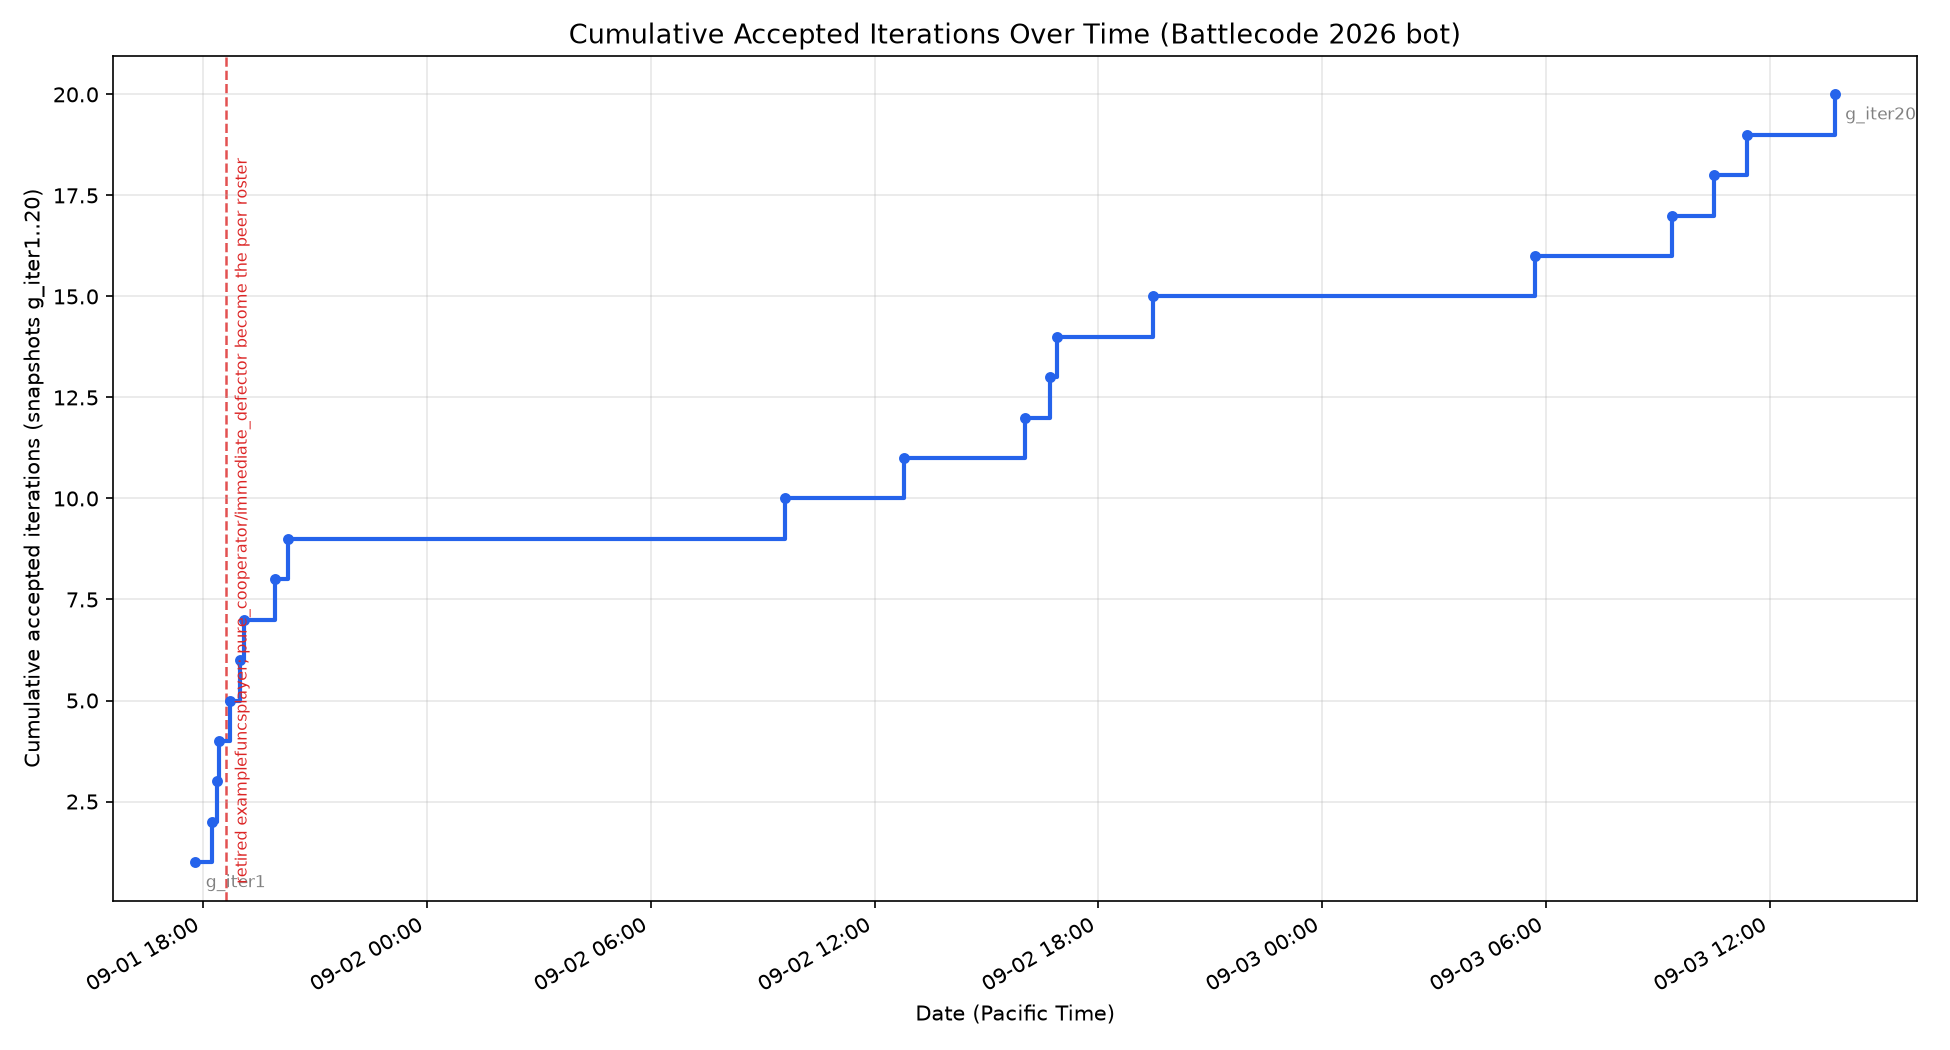
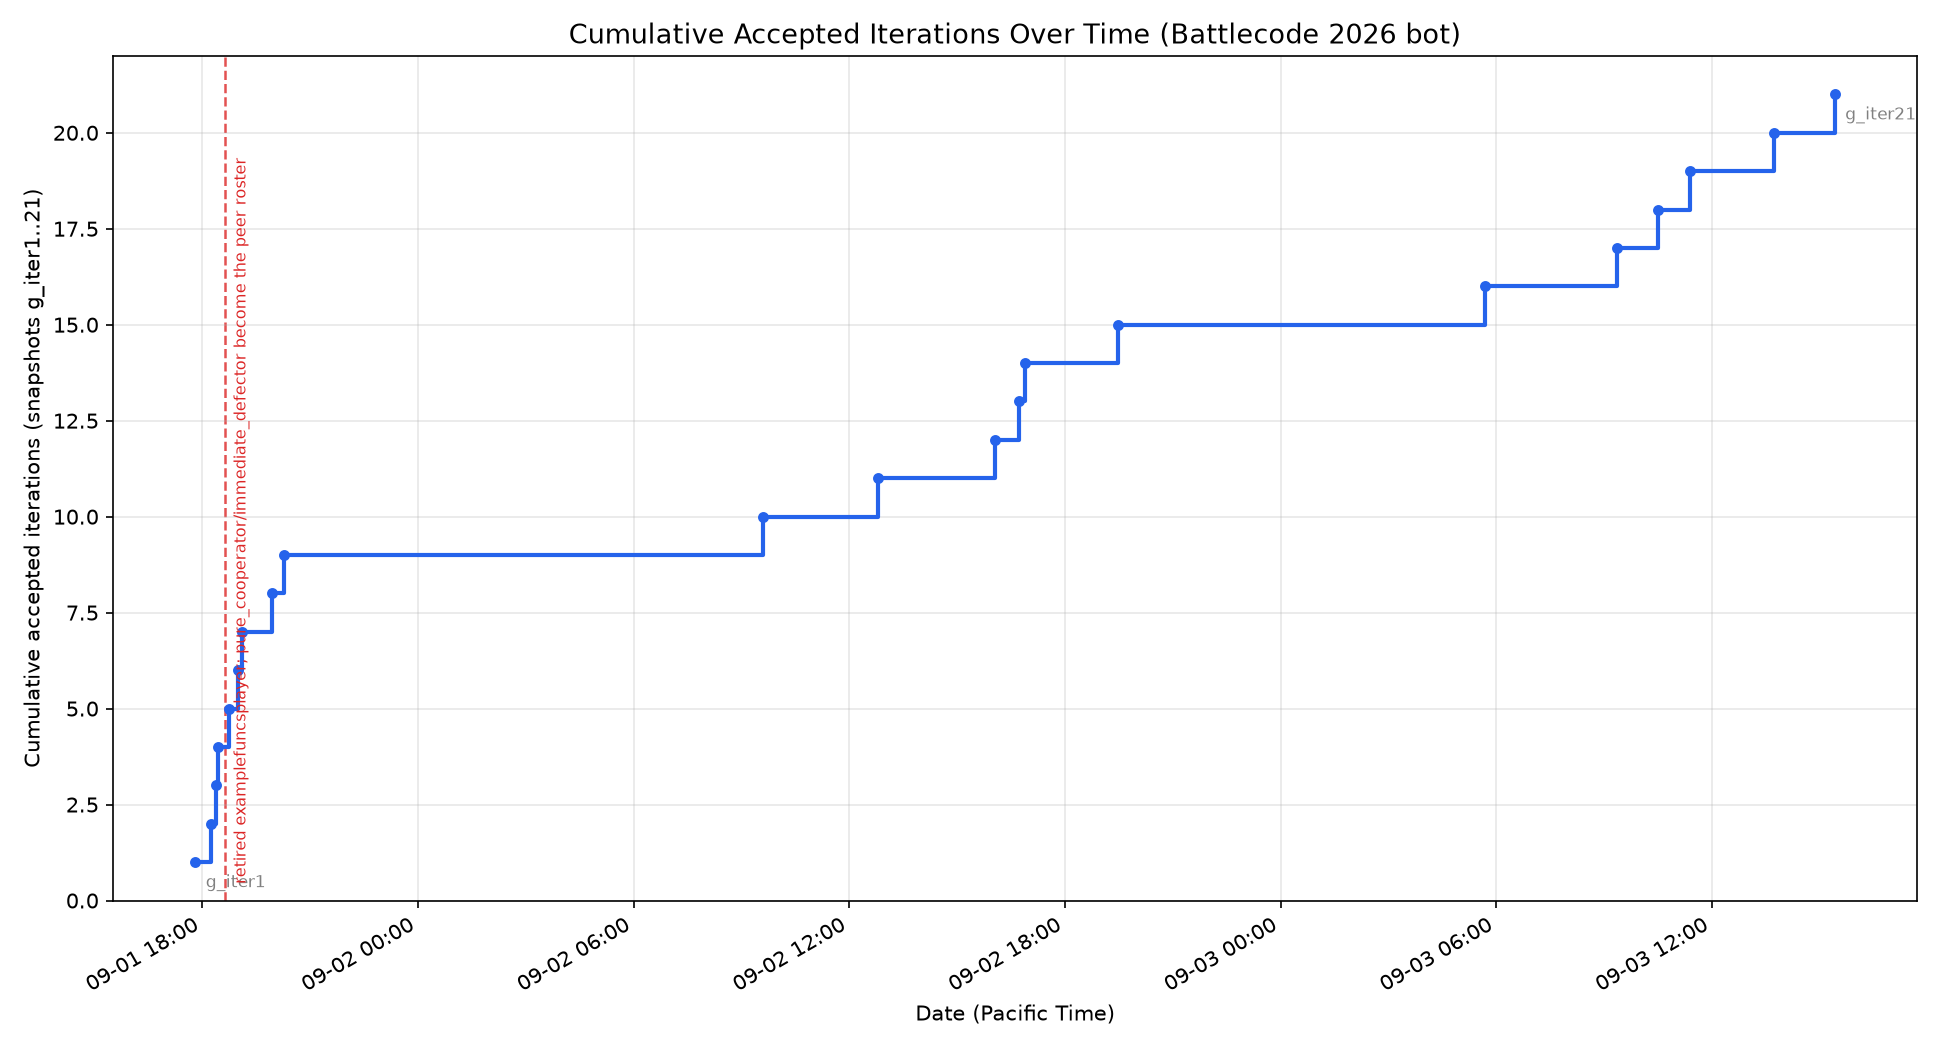
Record g_iter21 on vs_old_bots: 88.0% -> 91.7%
g_iter20   95/108 = 88.0%   (g_iter1 46/54, g_iter11 49/54)
    g_iter21   99/108 = 91.7%   (g_iter1 49/54, g_iter11 50/54)

Best of the session. Moves the same direction as the benchmark set rather than
trading against it, which is what a real improvement should do.

Regenerates all three charts per the post-accept routine: vs_old_bots.png,
cumulative_iterations.png (g_iter1..g_iter21), peer_win_spread.png.

Claude-Session: https://claude.ai/code/session_01Sgao6EtbbgQ6mM5ZhH5FGP

diff --git a/TRAINING_LOG.md b/TRAINING_LOG.md
@@ -7043,3 +7043,12 @@ and representativeness are different properties. Here the instrument that
 poses the threat (benchmarks, 22 wipes) is the one that moved, and the
 instrument that cannot pose it stayed flat. That is the expected signature,
 not a conflict.
+
+### Iteration 102 post-accept: vs_old_bots
+
+    g_iter20   95/108 = 88.0%   (g_iter1 46/54, g_iter11 49/54)
+    g_iter21   99/108 = 91.7%   (g_iter1 49/54, g_iter11 50/54)
+
+Best of the session, and it moves in the same direction as the benchmark set
+rather than trading against it. Charts regenerated: `vs_old_bots.png`,
+`cumulative_iterations.png` (now g_iter1..g_iter21), `peer_win_spread.png`.
